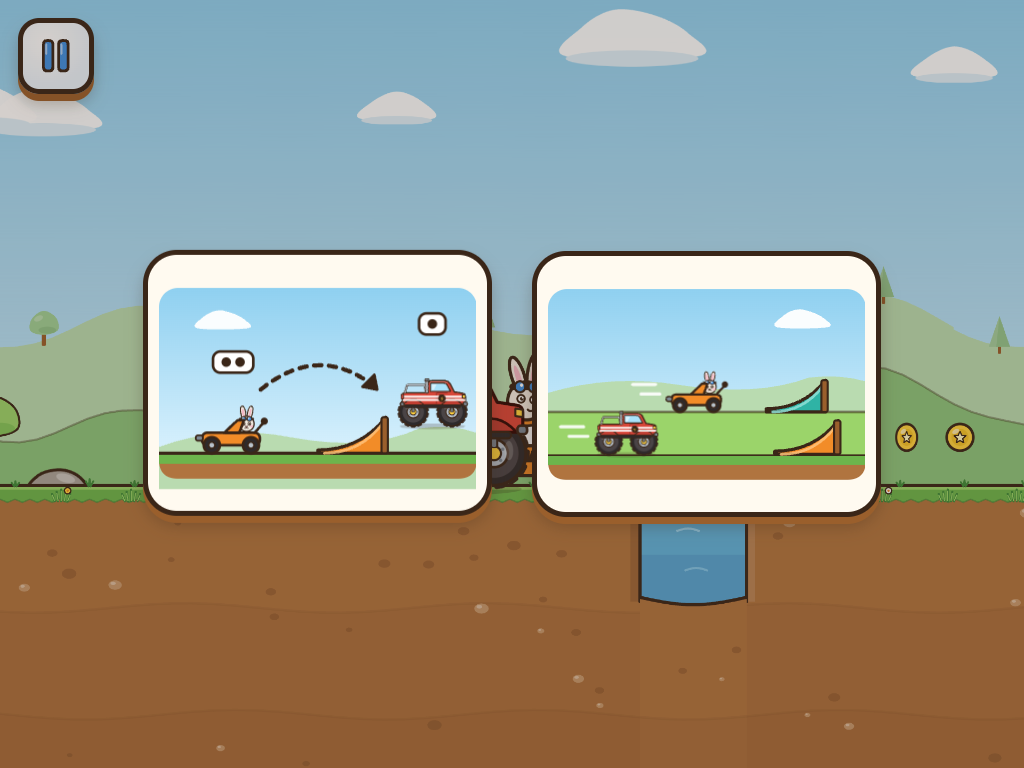
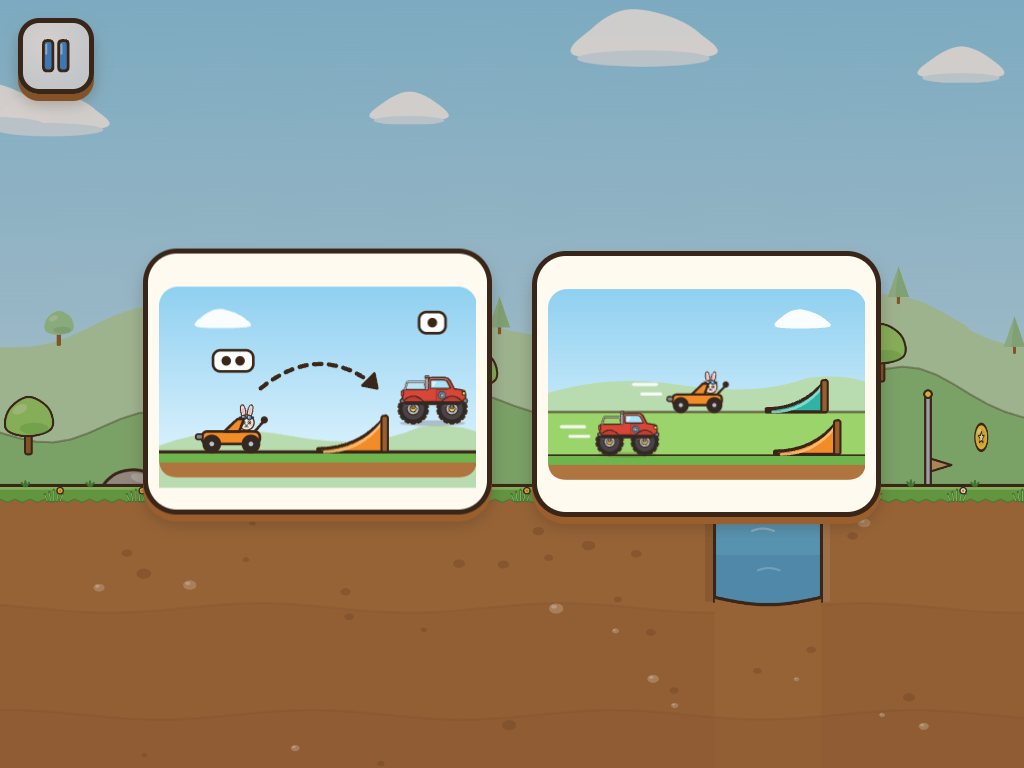
Wonder Garage: a tap at a log always hops over it; new ending screenshots
Waiting flush against a log, a jump from standstill went almost straight up
and could land short. A jump taken at a log now carries the truck forward at
driving speed (unit-tested for both wheels and slower driving). Adds the
ending and celebration screenshots.

Claude-Session: https://claude.ai/code/session_018eY5LsuawGy6pi18XbYBE1

diff --git a/garage/tests/unit/physics.test.ts b/garage/tests/unit/physics.test.ts
@@ -47,6 +47,20 @@ describe('driving and jumping', () => {
     expect(t.x).toBeGreaterThan(900);
   });
 
+  it('waiting flush against a log, one tap from standstill clears it (both wheels, slower driving too)', () => {
+    for (const wheel of WHEELS)
+      for (const speedFactor of [1, TUNING.drive.slowFactor]) {
+        const terrain = new Terrain([flat(0, 4000, G)], [{ id: 'log', x: 800, w: 70, top: G - 72 }]);
+        const t = new TruckSim(terrain, 200, { wheel, speedFactor });
+        run(t, 4);
+        expect(t.x).toBeGreaterThan(640); // waiting with its nose at the log
+        expect(t.x).toBeLessThan(651);
+        // (it brushes the log's face while rising: that's fine; it must end up past the log)
+        run(t, 2, (i) => ({ ...none, jumpPressed: i === 0, jumpHeld: i < 2 }));
+        expect(t.x, `${wheel} ${speedFactor}`).toBeGreaterThan(870);
+      }
+  });
+
   it('spring wheels jump clearly higher than chunky wheels, and holding adds a little', () => {
     const chunkyTap = apex('chunky', 1);
     const chunkyHold = apex('chunky', 30);

diff --git a/garage/src/core/truck.ts b/garage/src/core/truck.ts
@@ -127,6 +127,10 @@ export class TruckSim {
       const ramp = this.grounded ? this.surface?.launch : undefined;
       this.vy = -Math.max(J.velocity[this.wheel], ramp ?? 0);
       if (ramp) this.airSpeed = Math.max(this.vx, TUNING.drive.speed);
+      // waiting at a log: the jump carries the truck forward over it (not straight up and back down)
+      if (this.grounded && !input.brakeHeld && this.terrain.wallBetween(this.x, this.x + this.halfLength + 24, this.y)) {
+        this.airSpeed = Math.max(this.airSpeed, TUNING.drive.speed * this.speedFactor);
+      }
       this.grounded = false;
       this.jumping = true;
       this.surface = null;
